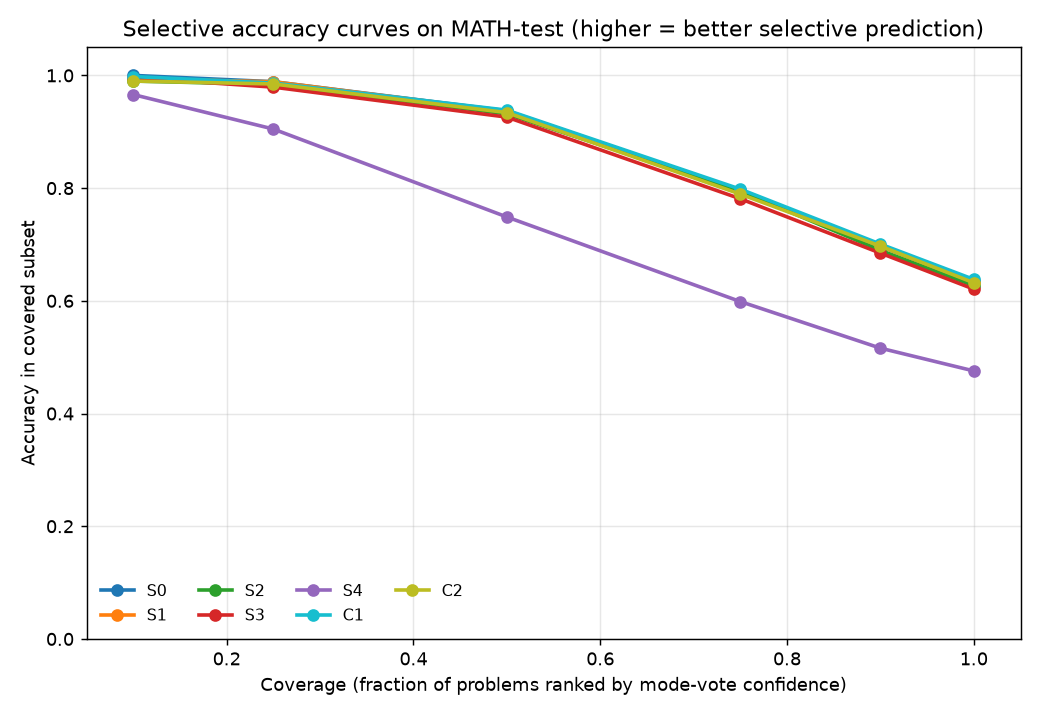
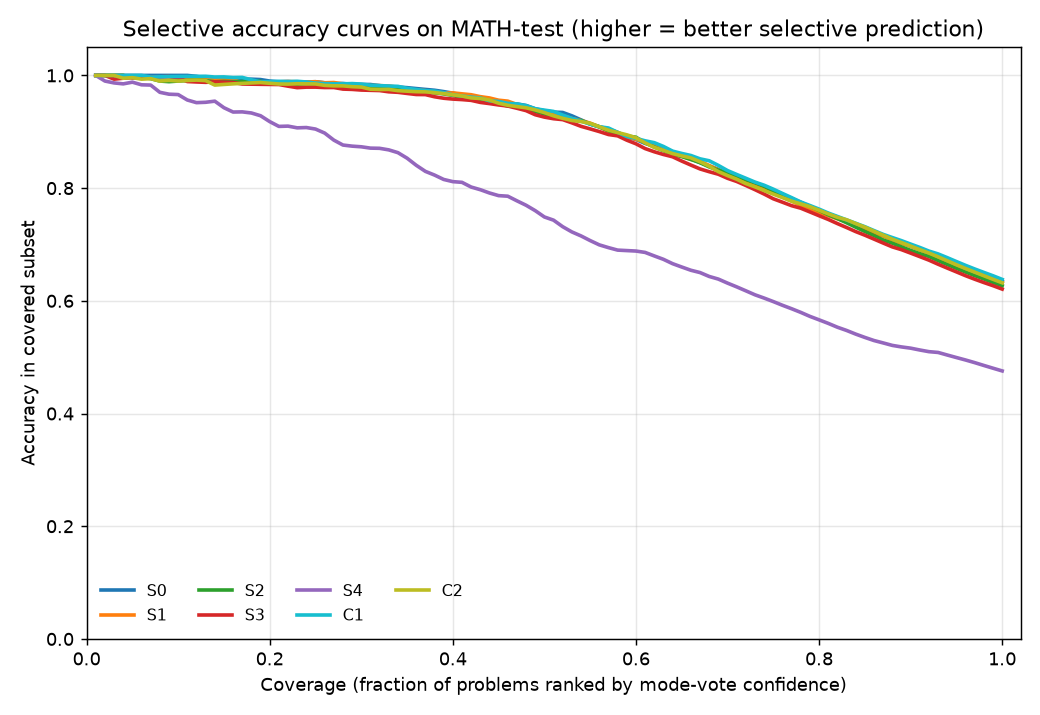
Draw Figure 2 selective-accuracy curves at 1% coverage steps
Claude-Session: https://claude.ai/code/session_01XRp6jVjYuRDFBv47fBC9ko

diff --git a/scripts/make_plots.py b/scripts/make_plots.py
@@ -121,18 +121,17 @@ def fig03_reliability_diagrams():
 
 def fig04_auacc_curves():
     fig, ax = plt.subplots(figsize=(8, 5.5))
-    covs = [0.1, 0.25, 0.5, 0.75, 0.9, 1.0]
+    curves = json.loads((REPO / "results" / "selective_curves.json").read_text())
+    covs = curves["coverage"]
     for c in CONDS:
-        sel = A["per_condition_bench"][c]["math_test"]["selective_accuracy"]
-        ys = [sel[f"selacc_at_cov_{cov}"] for cov in covs]
-        ax.plot(covs, ys, marker="o", label=c, color=COND_COLOR[c], linewidth=2)
+        ax.plot(covs, curves[c], label=c, color=COND_COLOR[c], linewidth=2)
     ax.set_xlabel("Coverage (fraction of problems ranked by mode-vote confidence)")
     ax.set_ylabel("Accuracy in covered subset")
     ax.set_title("Selective accuracy curves on MATH-test "
                  "(higher = better selective prediction)")
     ax.legend(ncol=4, fontsize=9, frameon=False, loc="lower left")
     ax.grid(alpha=0.3)
-    ax.set_xlim(0.05, 1.05)
+    ax.set_xlim(0.0, 1.02)
     ax.set_ylim(0.0, 1.05)
     fig.tight_layout()
     fig.savefig(FIG / "fig04_auacc_curves.png", dpi=130)
